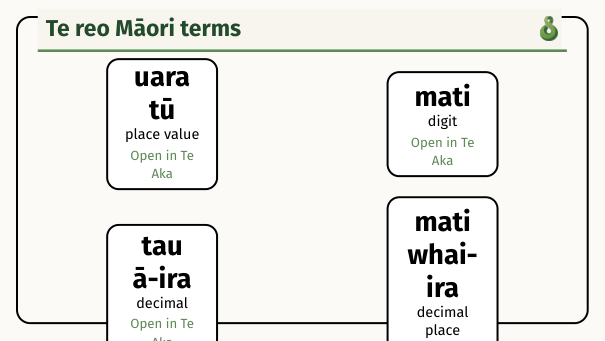
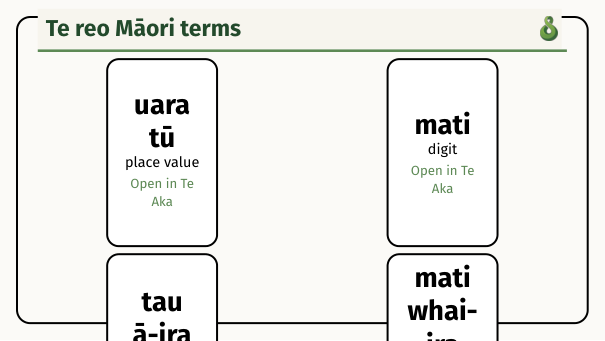
Force uniform card height: add height=5cm to termcard tcolorbox

diff --git a/OPERATIONS/templates/te-reo-template.tex b/OPERATIONS/templates/te-reo-template.tex
@@ -42,7 +42,7 @@
  \end{tikzpicture}
 }
 
-\newtcolorbox{termcard}[1][]{enhanced,breakable=false,colback=white,colframe=black,boxrule=1.5pt,arc=8pt,left=6pt,right=6pt,top=5pt,bottom=5pt,width=\linewidth,valign=center,before skip=0pt,after skip=0pt,#1}
+\newtcolorbox{termcard}[1][]{enhanced,breakable=false,colback=white,colframe=black,boxrule=1.5pt,arc=8pt,left=6pt,right=6pt,top=5pt,bottom=5pt,width=\linewidth,height=5cm,valign=center,before skip=0pt,after skip=0pt,#1}
 
 \newcommand{\TermCard}[3]{%
   \begin{minipage}{0.45\textwidth}
